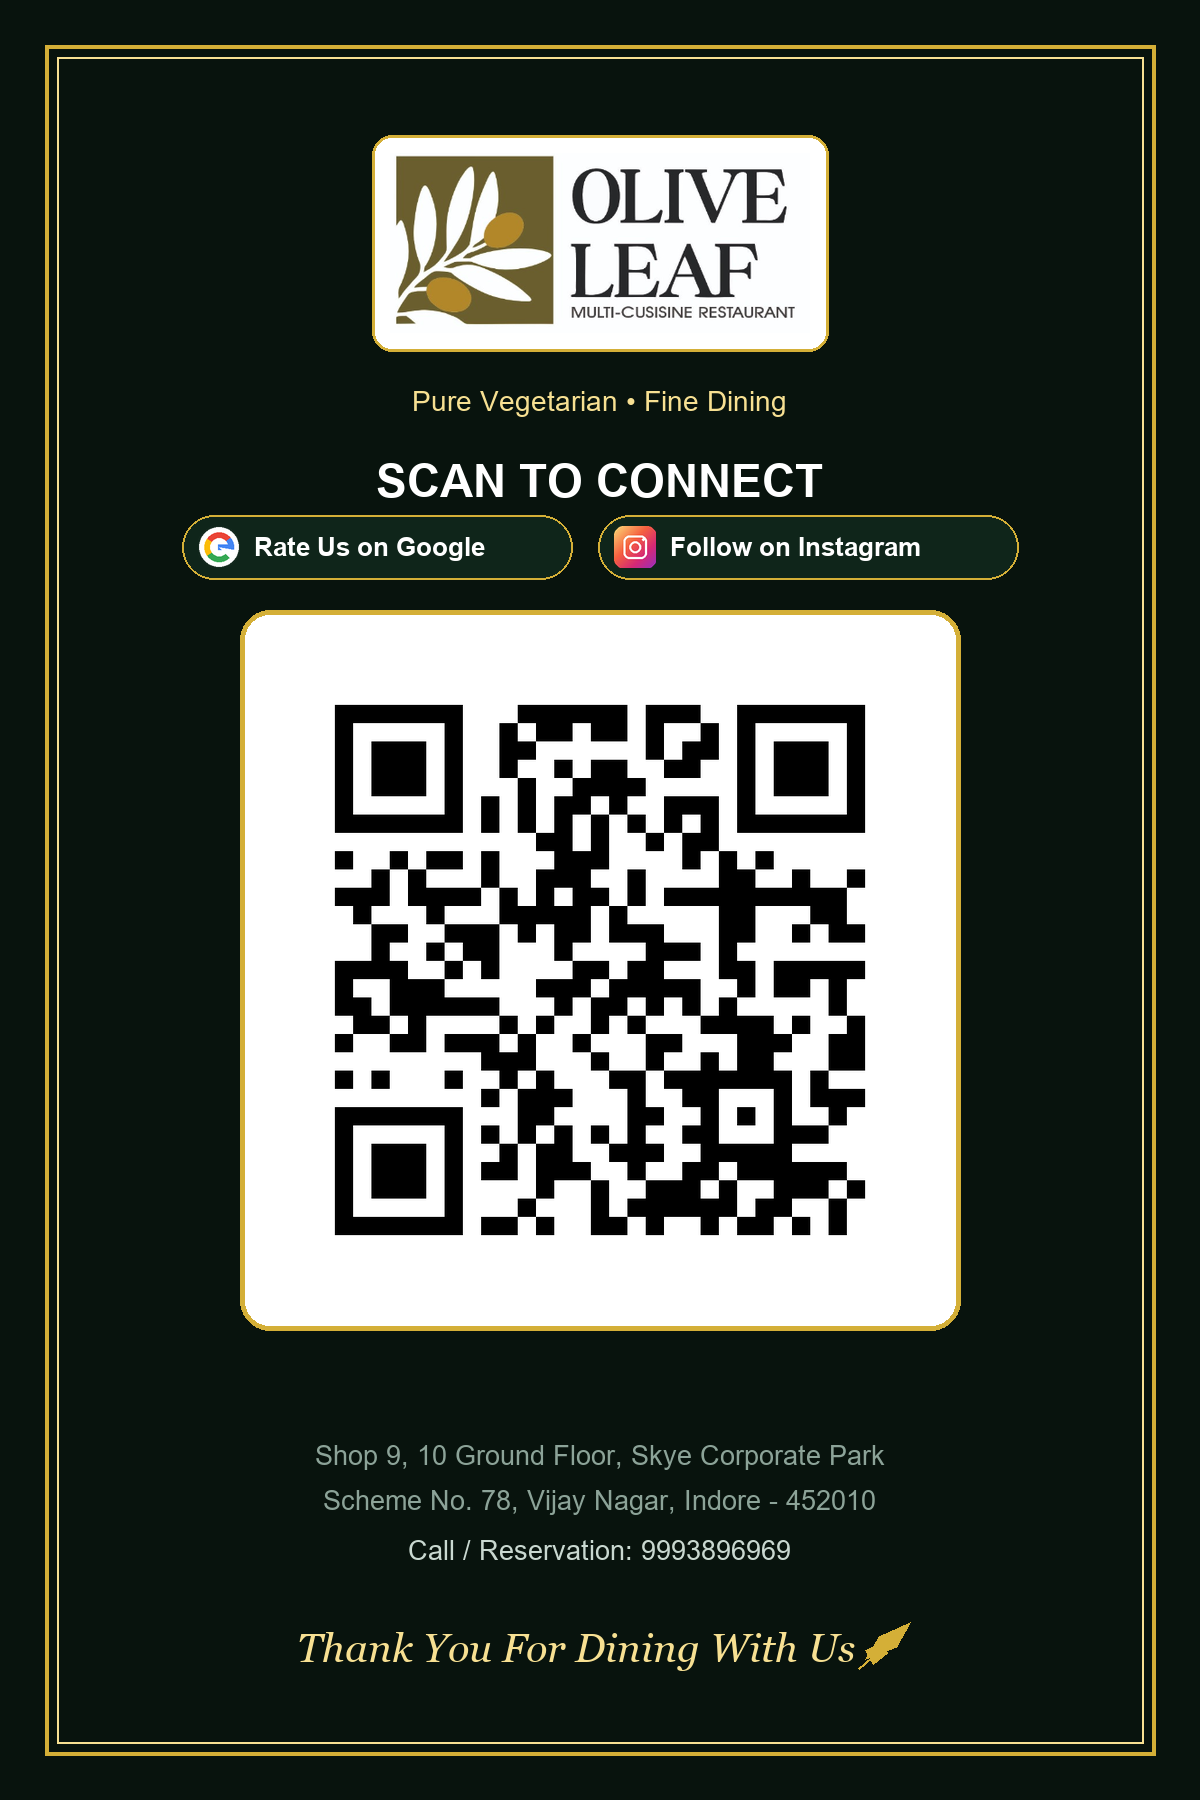
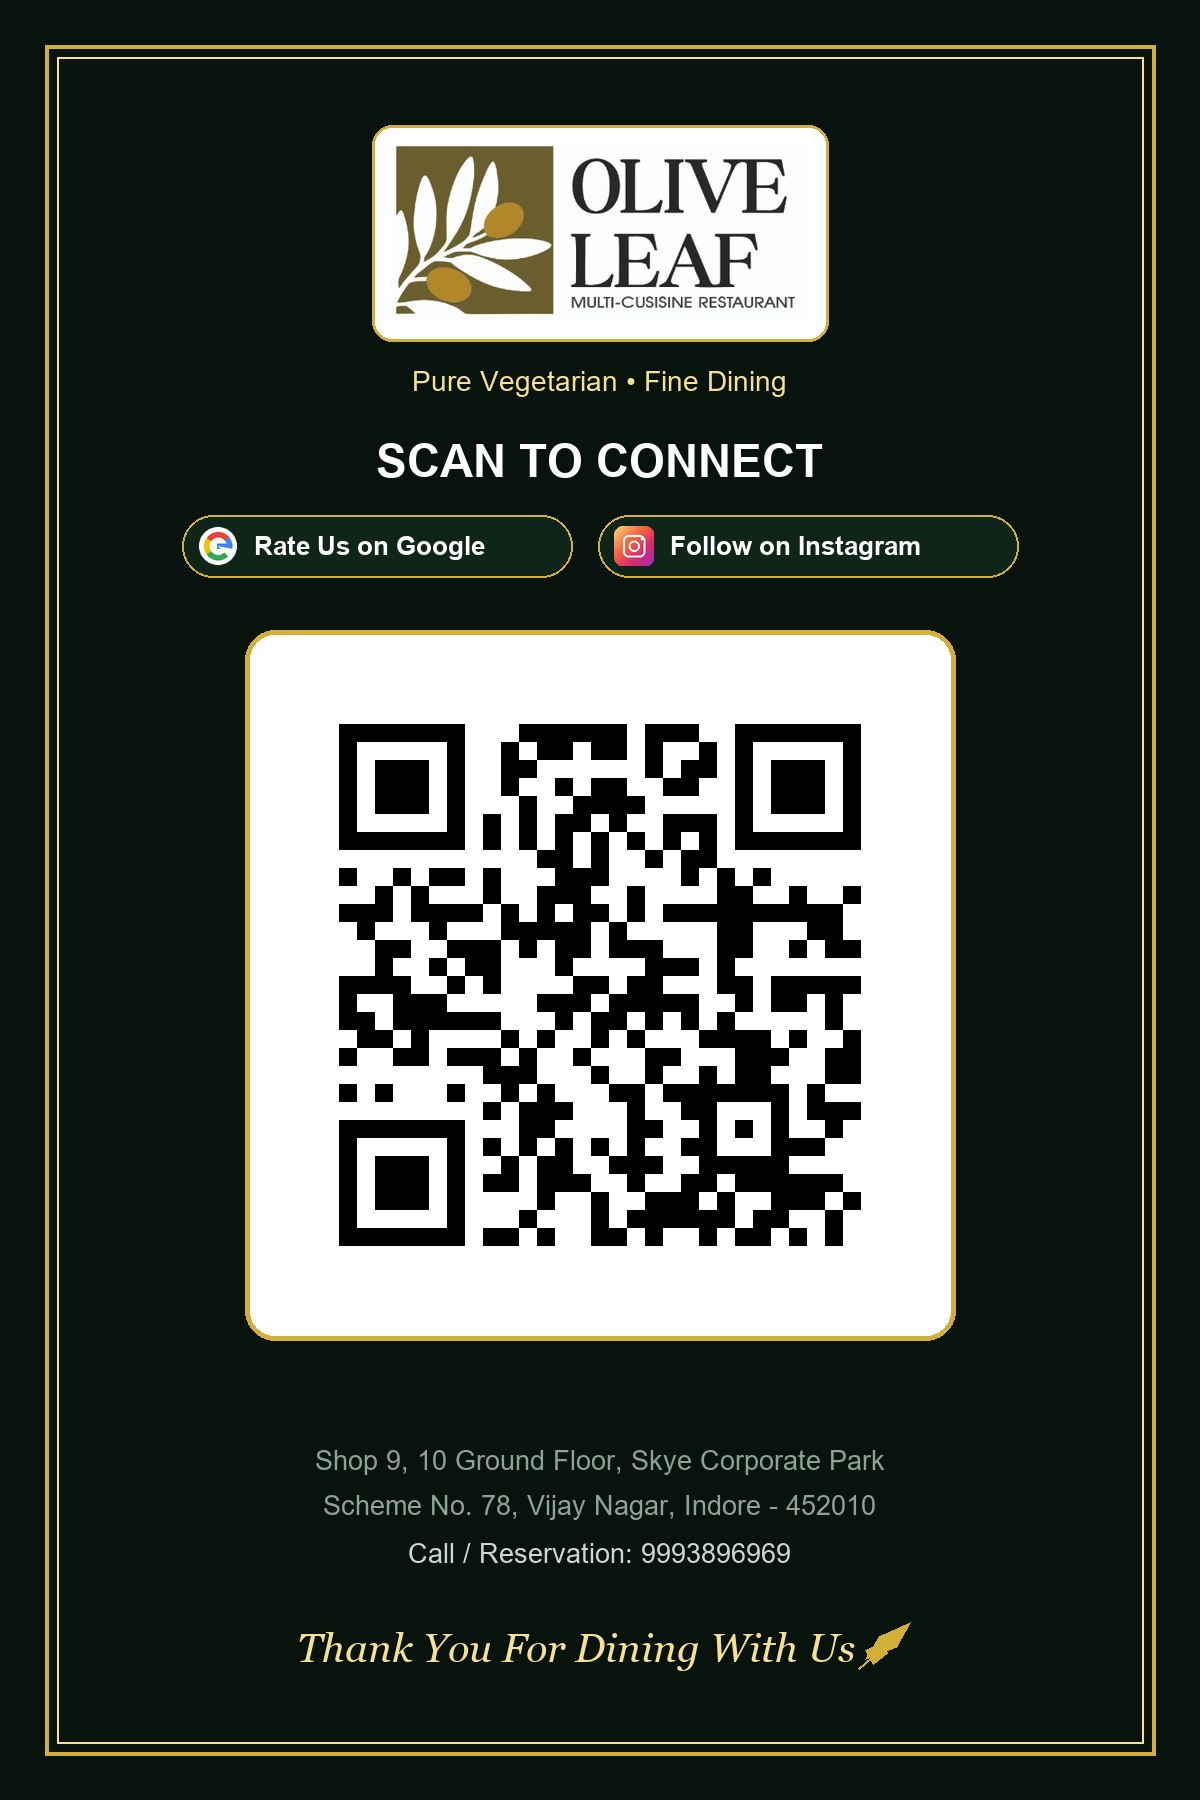
Add generous breathing room between SCAN TO CONNECT, badges, and QR card

Changed region(s): [[0.185, 0.0622, 0.8017, 0.7467], [0.2467, 0.8089, 0.74, 0.8711], [0.1542, 0.28, 0.185, 0.3111]]

diff --git a/standee.html b/standee.html
@@ -133,7 +133,7 @@
             font-size: 18px;
             font-weight: 800;
             color: #ffffff;
-            margin-bottom: 3px;
+            margin-bottom: 12px;
             letter-spacing: 0.5px;
         }
 
@@ -167,8 +167,8 @@
         /* Platform Badges (Google & Instagram Logos) */
         .platform-badges {
             display: flex;
-            gap: 10px;
-            margin-bottom: 12px;
+            gap: 12px;
+            margin-bottom: 22px;
         }
 
         .badge-pill {

diff --git a/generate_qr.py b/generate_qr.py
@@ -115,24 +115,23 @@ def generate_standee_card(qr_img, cfg):
         cw = logo_w + card_pad * 2
         ch = logo_h + card_pad * 2
         cx = (w - cw) // 2
-        cy = 135
+        cy = 125
         draw.rounded_rectangle([cx, cy, cx + cw, cy + ch], radius=20, fill="#ffffff", outline="#d4af37", width=3)
         standee.paste(logo_resized, (cx + card_pad, cy + card_pad), logo_resized)
 
     # Tagline Badge
     tag_text = cfg.get("tagline", "PURE VEGETARIAN • FINE DINING").replace("*", "•")
     tb2 = draw.textbbox((0, 0), tag_text, font=sub_font)
-    draw.text(((w - (tb2[2] - tb2[0])) // 2, 385), tag_text, fill="#f7e092", font=sub_font)
+    draw.text(((w - (tb2[2] - tb2[0])) // 2, 365), tag_text, fill="#f7e092", font=sub_font)
 
-    # 2. Instruction Title
+    # 2. Instruction Title (More breathing room)
     inst_text = "SCAN TO CONNECT"
     ib = draw.textbbox((0, 0), inst_text, font=instruction_font)
-    draw.text(((w - (ib[2] - ib[0])) // 2, 455), inst_text, fill="#ffffff", font=instruction_font)
+    draw.text(((w - (ib[2] - ib[0])) // 2, 435), inst_text, fill="#ffffff", font=instruction_font)
 
-    # 3. Google Logo & Instagram Logo Pill Badges
-    # Load / Resize logos
-    g_badge_w, g_badge_h = 390, 64
-    i_badge_w, i_badge_h = 420, 64
+    # 3. Google Logo & Instagram Logo Pill Badges (Generous top & bottom space)
+    g_badge_w, g_badge_h = 390, 62
+    i_badge_w, i_badge_h = 420, 62
     gap = 26
     total_badges_w = g_badge_w + i_badge_w + gap
     start_badges_x = (w - total_badges_w) // 2
@@ -141,30 +140,30 @@ def generate_standee_card(qr_img, cfg):
     # Badge 1: Google
     draw.rounded_rectangle(
         [start_badges_x, badges_y, start_badges_x + g_badge_w, badges_y + g_badge_h],
-        radius=32, fill="#0f251a", outline="#d4af37", width=2
+        radius=31, fill="#0f251a", outline="#d4af37", width=2
     )
     if os.path.exists("google_icon.png"):
-        g_ico = Image.open("google_icon.png").convert("RGBA").resize((42, 42), Image.Resampling.LANCZOS)
+        g_ico = Image.open("google_icon.png").convert("RGBA").resize((40, 40), Image.Resampling.LANCZOS)
         standee.paste(g_ico, (start_badges_x + 16, badges_y + 11), g_ico)
     g_text = "Rate Us on Google"
-    draw.text((start_badges_x + 72, badges_y + 17), g_text, fill="#ffffff", font=badge_font)
+    draw.text((start_badges_x + 72, badges_y + 16), g_text, fill="#ffffff", font=badge_font)
 
     # Badge 2: Instagram
     insta_x = start_badges_x + g_badge_w + gap
     draw.rounded_rectangle(
         [insta_x, badges_y, insta_x + i_badge_w, badges_y + i_badge_h],
-        radius=32, fill="#0f251a", outline="#d4af37", width=2
+        radius=31, fill="#0f251a", outline="#d4af37", width=2
     )
     if os.path.exists("instagram_icon.png"):
-        i_ico = Image.open("instagram_icon.png").convert("RGBA").resize((42, 42), Image.Resampling.LANCZOS)
+        i_ico = Image.open("instagram_icon.png").convert("RGBA").resize((40, 40), Image.Resampling.LANCZOS)
         standee.paste(i_ico, (insta_x + 16, badges_y + 11), i_ico)
     i_text = "Follow on Instagram"
-    draw.text((insta_x + 72, badges_y + 17), i_text, fill="#ffffff", font=badge_font)
+    draw.text((insta_x + 72, badges_y + 16), i_text, fill="#ffffff", font=badge_font)
 
-    # 4. Main Solid Black QR Code Card
-    qr_card_size = 720
+    # 4. Main Solid Black QR Code Card (50px spacing below badges)
+    qr_card_size = 710
     qr_card_x = (w - qr_card_size) // 2
-    qr_card_y = 610
+    qr_card_y = 630
     
     draw.rounded_rectangle(
         [qr_card_x, qr_card_y, qr_card_x + qr_card_size, qr_card_y + qr_card_size],
@@ -174,7 +173,7 @@ def generate_standee_card(qr_img, cfg):
         width=5
     )
 
-    qr_display_size = 640
+    qr_display_size = 630
     qr_resized = qr_img.resize((qr_display_size, qr_display_size), Image.Resampling.LANCZOS)
     qr_pos_x = qr_card_x + (qr_card_size - qr_display_size) // 2
     qr_pos_y = qr_card_y + (qr_card_size - qr_display_size) // 2
@@ -183,32 +182,28 @@ def generate_standee_card(qr_img, cfg):
     # 5. Footer: Location & Contact
     line1 = "Shop 9, 10 Ground Floor, Skye Corporate Park"
     l1_b = draw.textbbox((0, 0), line1, font=footer_font)
-    draw.text(((w - (l1_b[2] - l1_b[0])) // 2, 1440), line1, fill="#8ca398", font=footer_font)
+    draw.text(((w - (l1_b[2] - l1_b[0])) // 2, 1445), line1, fill="#8ca398", font=footer_font)
 
     line2 = "Scheme No. 78, Vijay Nagar, Indore - 452010"
     l2_b = draw.textbbox((0, 0), line2, font=footer_font)
-    draw.text(((w - (l2_b[2] - l2_b[0])) // 2, 1485), line2, fill="#8ca398", font=footer_font)
+    draw.text(((w - (l2_b[2] - l2_b[0])) // 2, 1490), line2, fill="#8ca398", font=footer_font)
 
     phone_text = cfg.get("phoneButtonText", "Call / Reservation: 9993896969")
     pb = draw.textbbox((0, 0), phone_text, font=footer_font)
-    draw.text(((w - (pb[2] - pb[0])) // 2, 1535), phone_text, fill="#c9d8d0", font=footer_font)
+    draw.text(((w - (pb[2] - pb[0])) // 2, 1538), phone_text, fill="#c9d8d0", font=footer_font)
 
     # 6. Elegant Italic Gold 'Thank You For Dining With Us 🌿'
     thanks_text = "Thank You For Dining With Us"
     thb = draw.textbbox((0, 0), thanks_text, font=thanks_font)
     text_width = thb[2] - thb[0]
     
-    # Calculate position to center text + gold leaf
     leaf_gap = 20
     leaf_size = 28
     total_thanks_width = text_width + leaf_gap + leaf_size
     thanks_start_x = (w - total_thanks_width) // 2
     thanks_y = 1625
 
-    # Draw Italic Gold Text
     draw.text((thanks_start_x, thanks_y), thanks_text, fill="#f7e092", font=thanks_font)
-    
-    # Draw Elegant Gold Olive Leaf 🌿
     draw_gold_leaf(draw, thanks_start_x + text_width + leaf_gap + 10, thanks_y + 20, leaf_size, "#d4af37")
 
     # Save outputs
